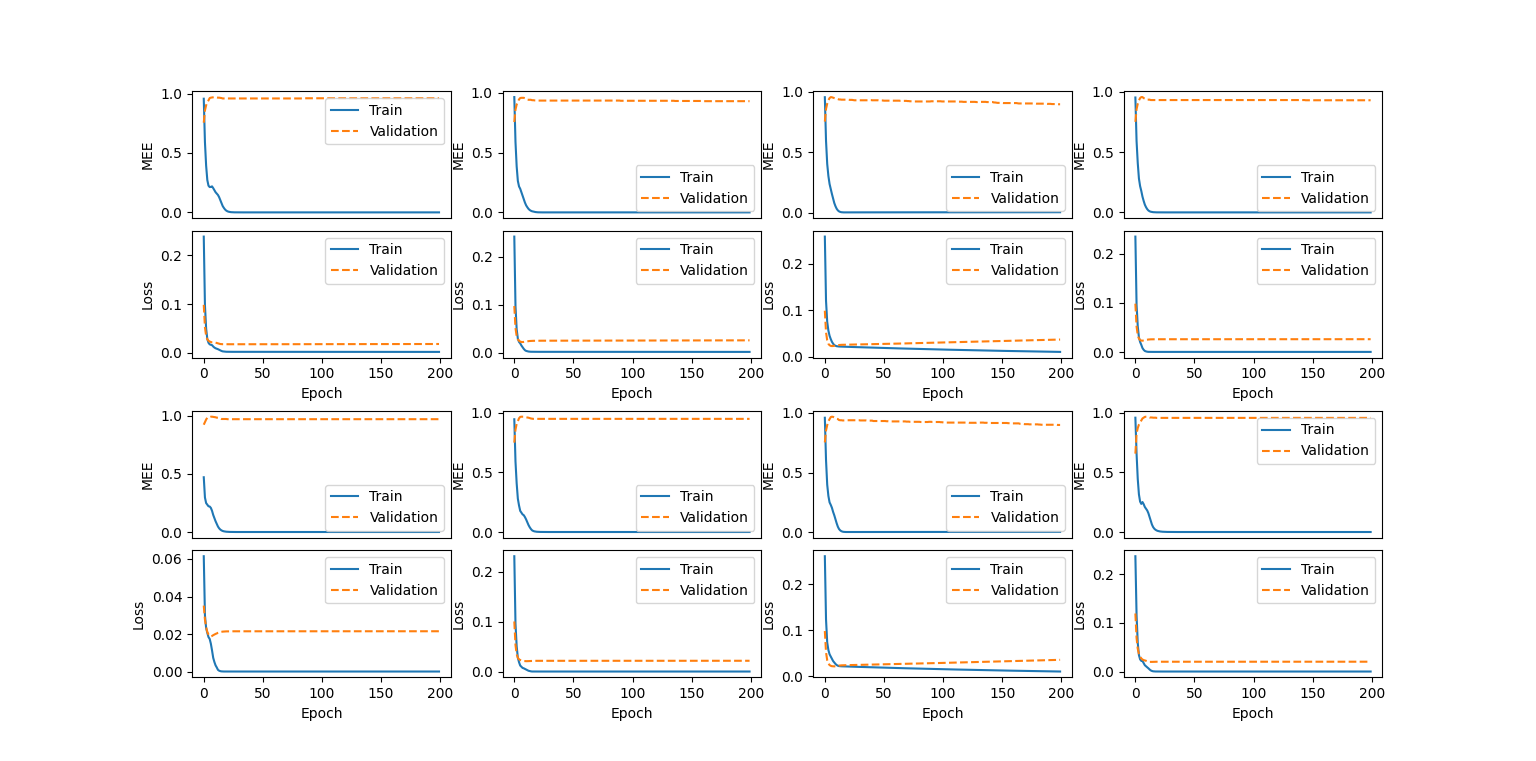
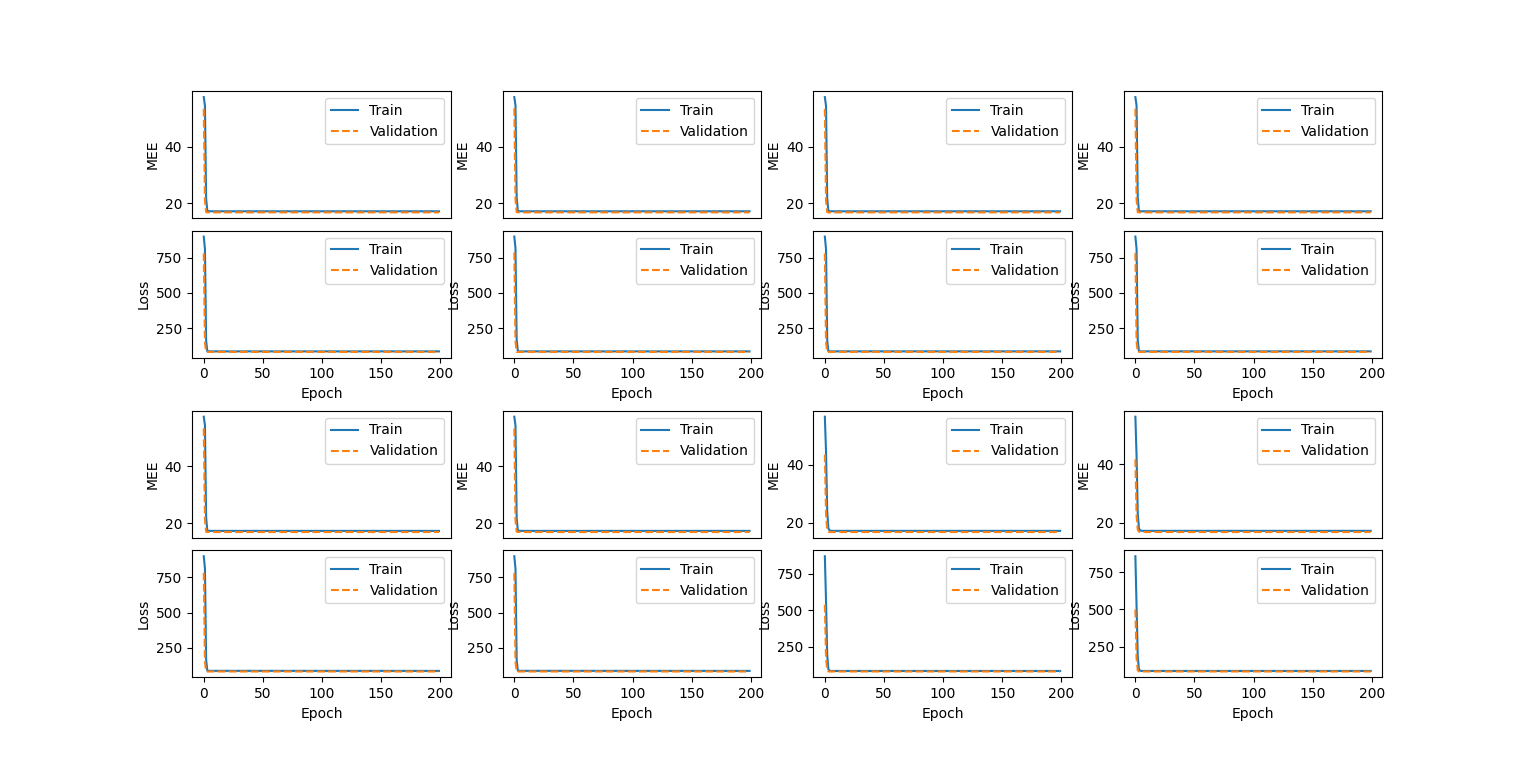
added mlcup first results

diff --git a/scripts/grid_search_ml_cup.py b/scripts/grid_search_ml_cup.py
@@ -52,7 +52,7 @@ class GridSearch:
     def _compute_model_score(self, model_infos):
         # model_infos : (avg_test_acc, (test_acc_bm, vacc_bm, vlossbm, training_bm[(a, va, l, vl)]))
         # test accuracy
-        score = 1000*model_infos[0] # FOR ML CUP: try to start low and each oscillation will higher the score, then sort decreasingly
+        score = 100*model_infos[0] # FOR ML CUP: try to start low and each oscillation will higher the score, then sort decreasingly
         # validation loss smooth and training loss smooth (val has more weight)
         val_loss = []
         train_loss = []
@@ -184,19 +184,22 @@ class GridSearch:
             scores = []
             stats = []
             params = []
+            test_eval_metrics = []
             for j in range(len(structures_best_configurations[i])):
                 scores.append(self._compute_model_score(structures_best_configurations[i][j]))
+                test_eval_metrics.append(structures_best_configurations[i][j][0])
                 stats.append(structures_best_configurations[i][j][1][-1])
                 params.append(self._get_model_parameters(j,len(structures_best_configurations[i])))
 
-            zipped_triples = sorted(zip(stats, scores, params), key = lambda x : x[1]) # sort everything by decreasing score
+            zipped_triples = sorted(zip(stats, scores, params, test_eval_metrics), key = lambda x : x[1]) # sort everything by decreasing score
             max_len = min(len(zipped_triples), 8) # to only get top best results for visualization sake
-            stats  = [x for x,_,_ in zipped_triples[:max_len]]
-            scores = [x for _,x,_ in zipped_triples[:max_len]]
-            params = [x for _,_,x in zipped_triples[:max_len]]
+            stats  =            [x for x,_,_,_ in zipped_triples[:max_len]]
+            scores =            [x for _,x,_,_ in zipped_triples[:max_len]]
+            params =            [x for _,_,x,_ in zipped_triples[:max_len]]
+            test_eval_metrics = [x for _,_,_,x in zipped_triples[:max_len]]
 
             for j in range(max_len):
-                print(f"Configuration {j}, score : {scores[j]}, params:{params[j]}")
+                print(f"Configuration {j}, score : {scores[j]}, test_mee : {test_eval_metrics[j]}, params:{params[j]}")
 
             Plot._plot_train_stats(stats,title=f"Model {i}", epochs=[x['epoch'] for x in params], block=(i==len(structures_best_configurations)-1), classification=False)
 
@@ -240,11 +243,11 @@ if __name__ == "__main__":
     ]
     gs._set_parameters(layers=models, 
                     weight_range=[(-0.69, 0.69)],
-                    eta=[1e-3,1e-4,8e-5,5e-5],
+                    eta=[1e-4,8e-5,5e-5],
                     alpha=[0.8,0.98],
                     batch_size=[len(train_labels)],
                     epoch=[200],
-                    lr_decay=[1e-5, 1e-6],
+                    lr_decay=[1e-5],
                     _lambda=[1e-3, 1e-4, 1e-5]
                 )
     gs._run(train, train_labels, validation, validation_labels, test, test_labels, familyofmodelsperconfiguration=3)
